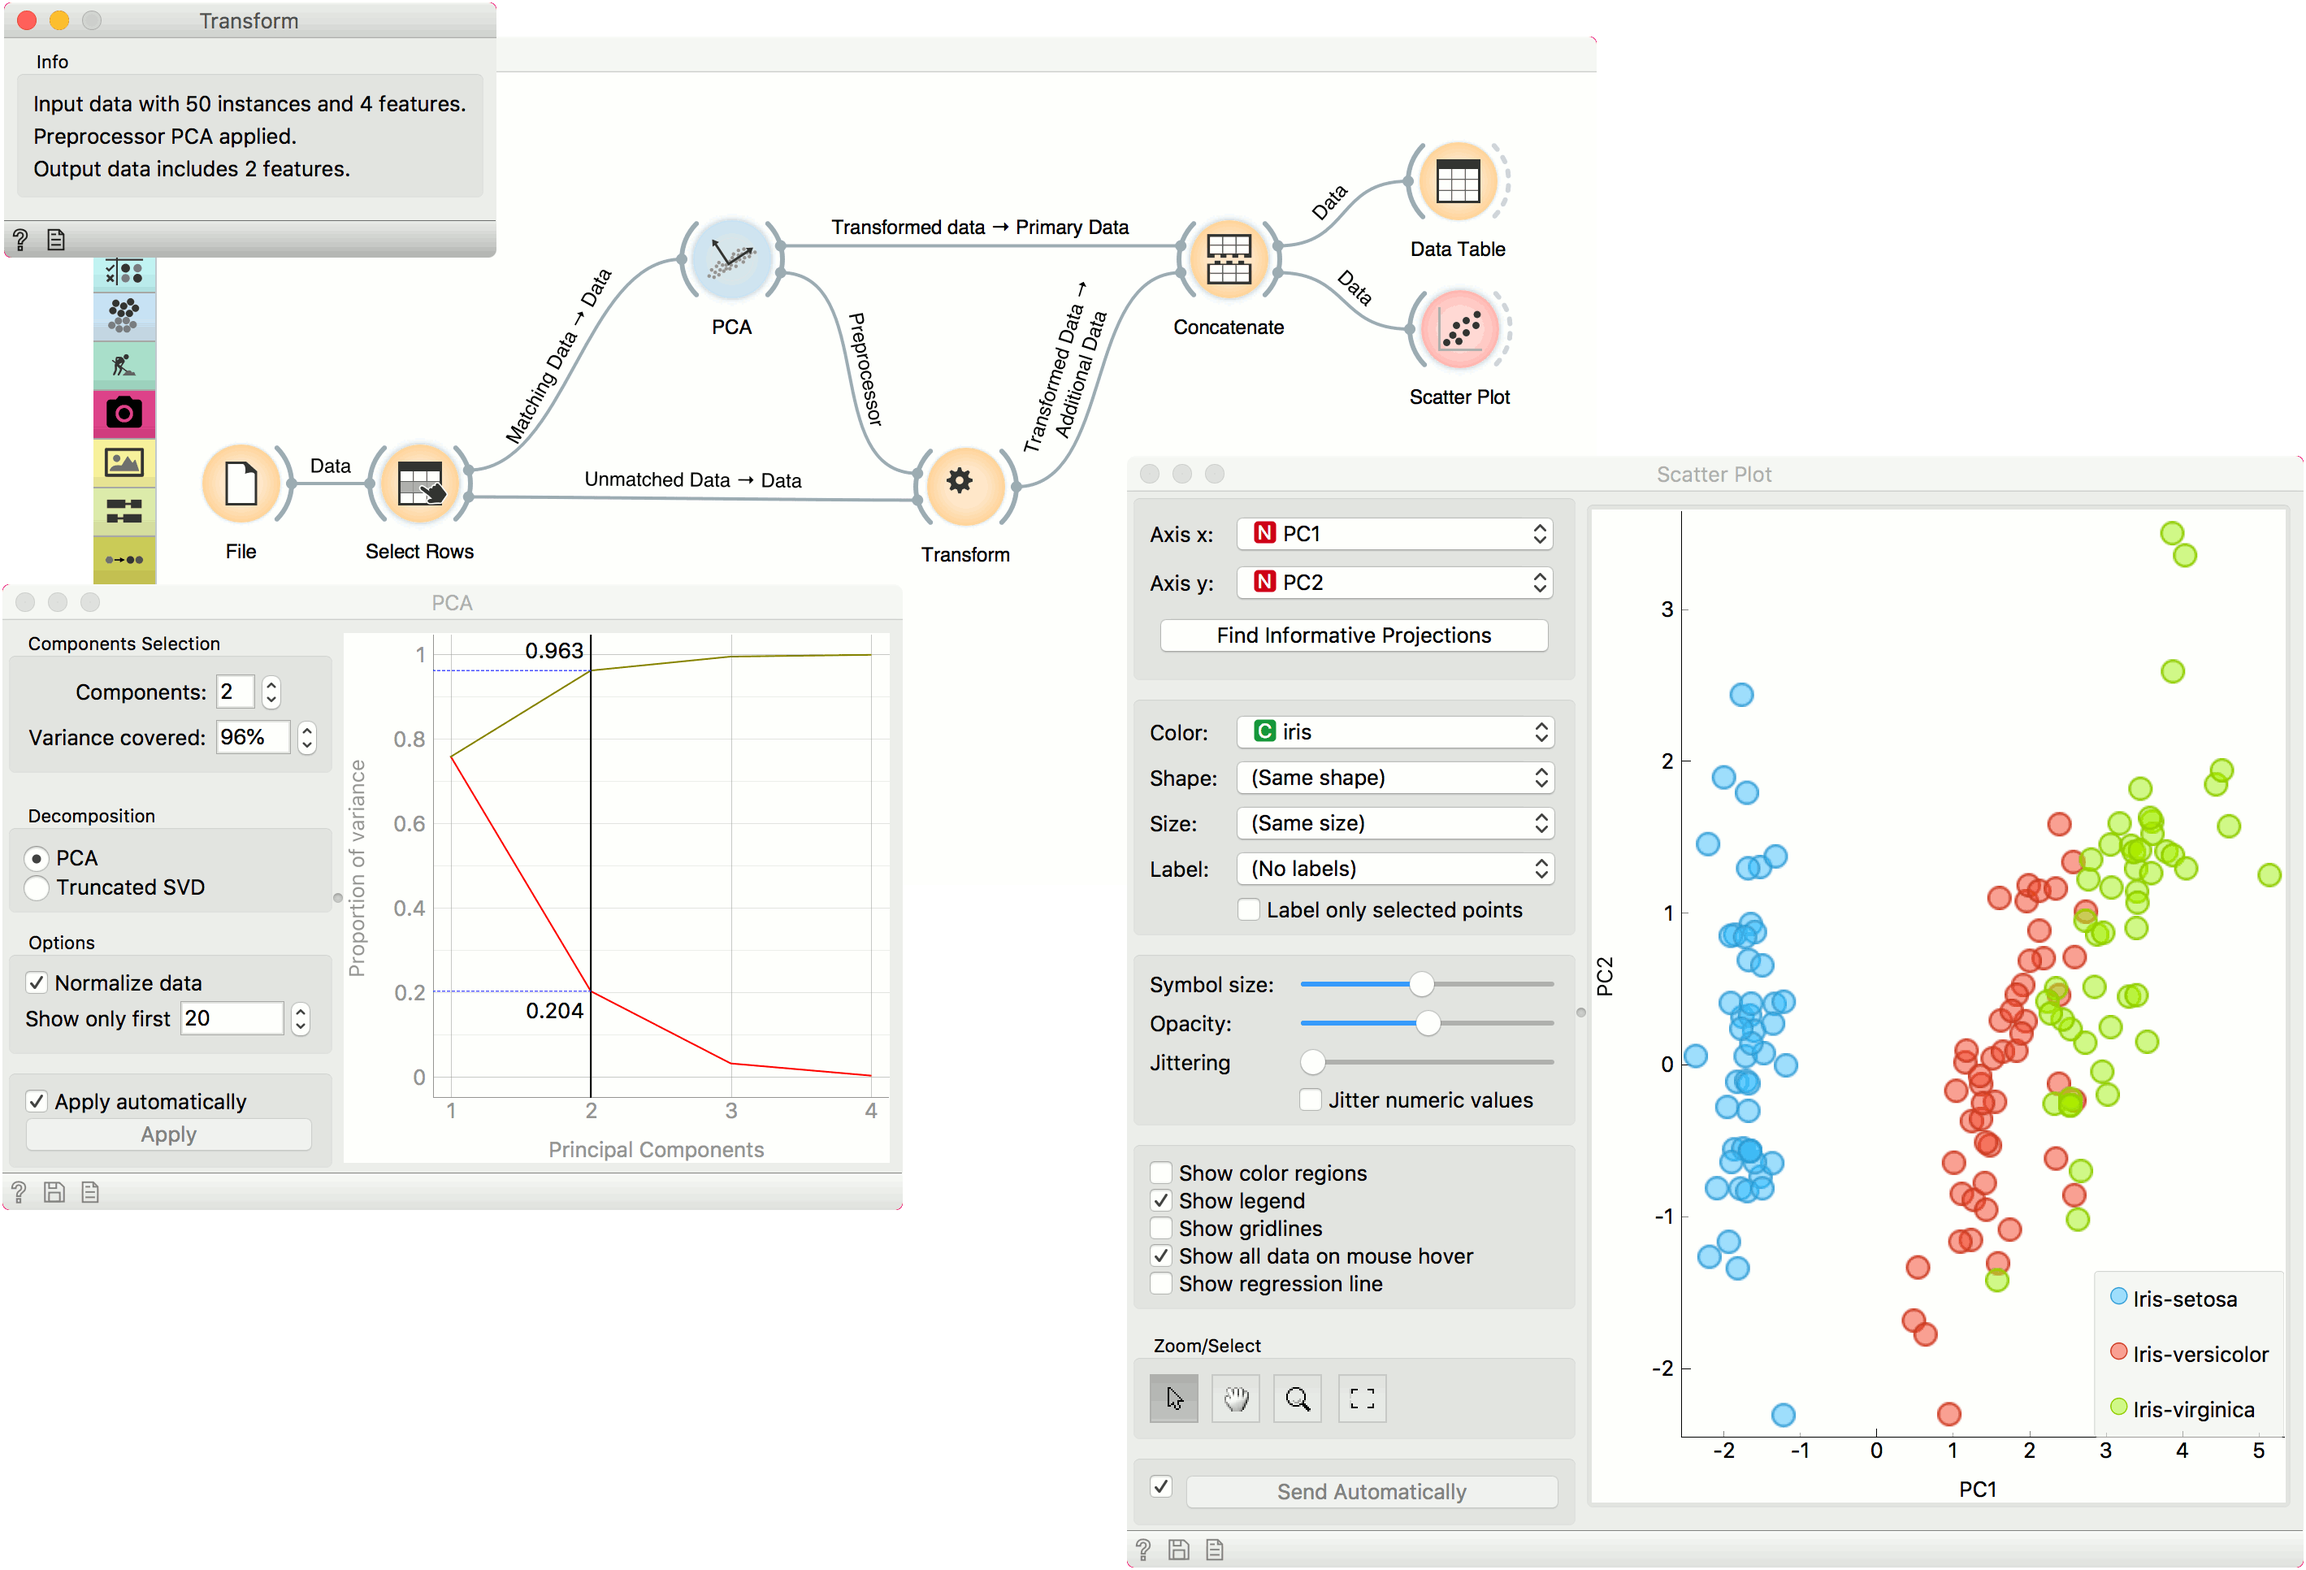
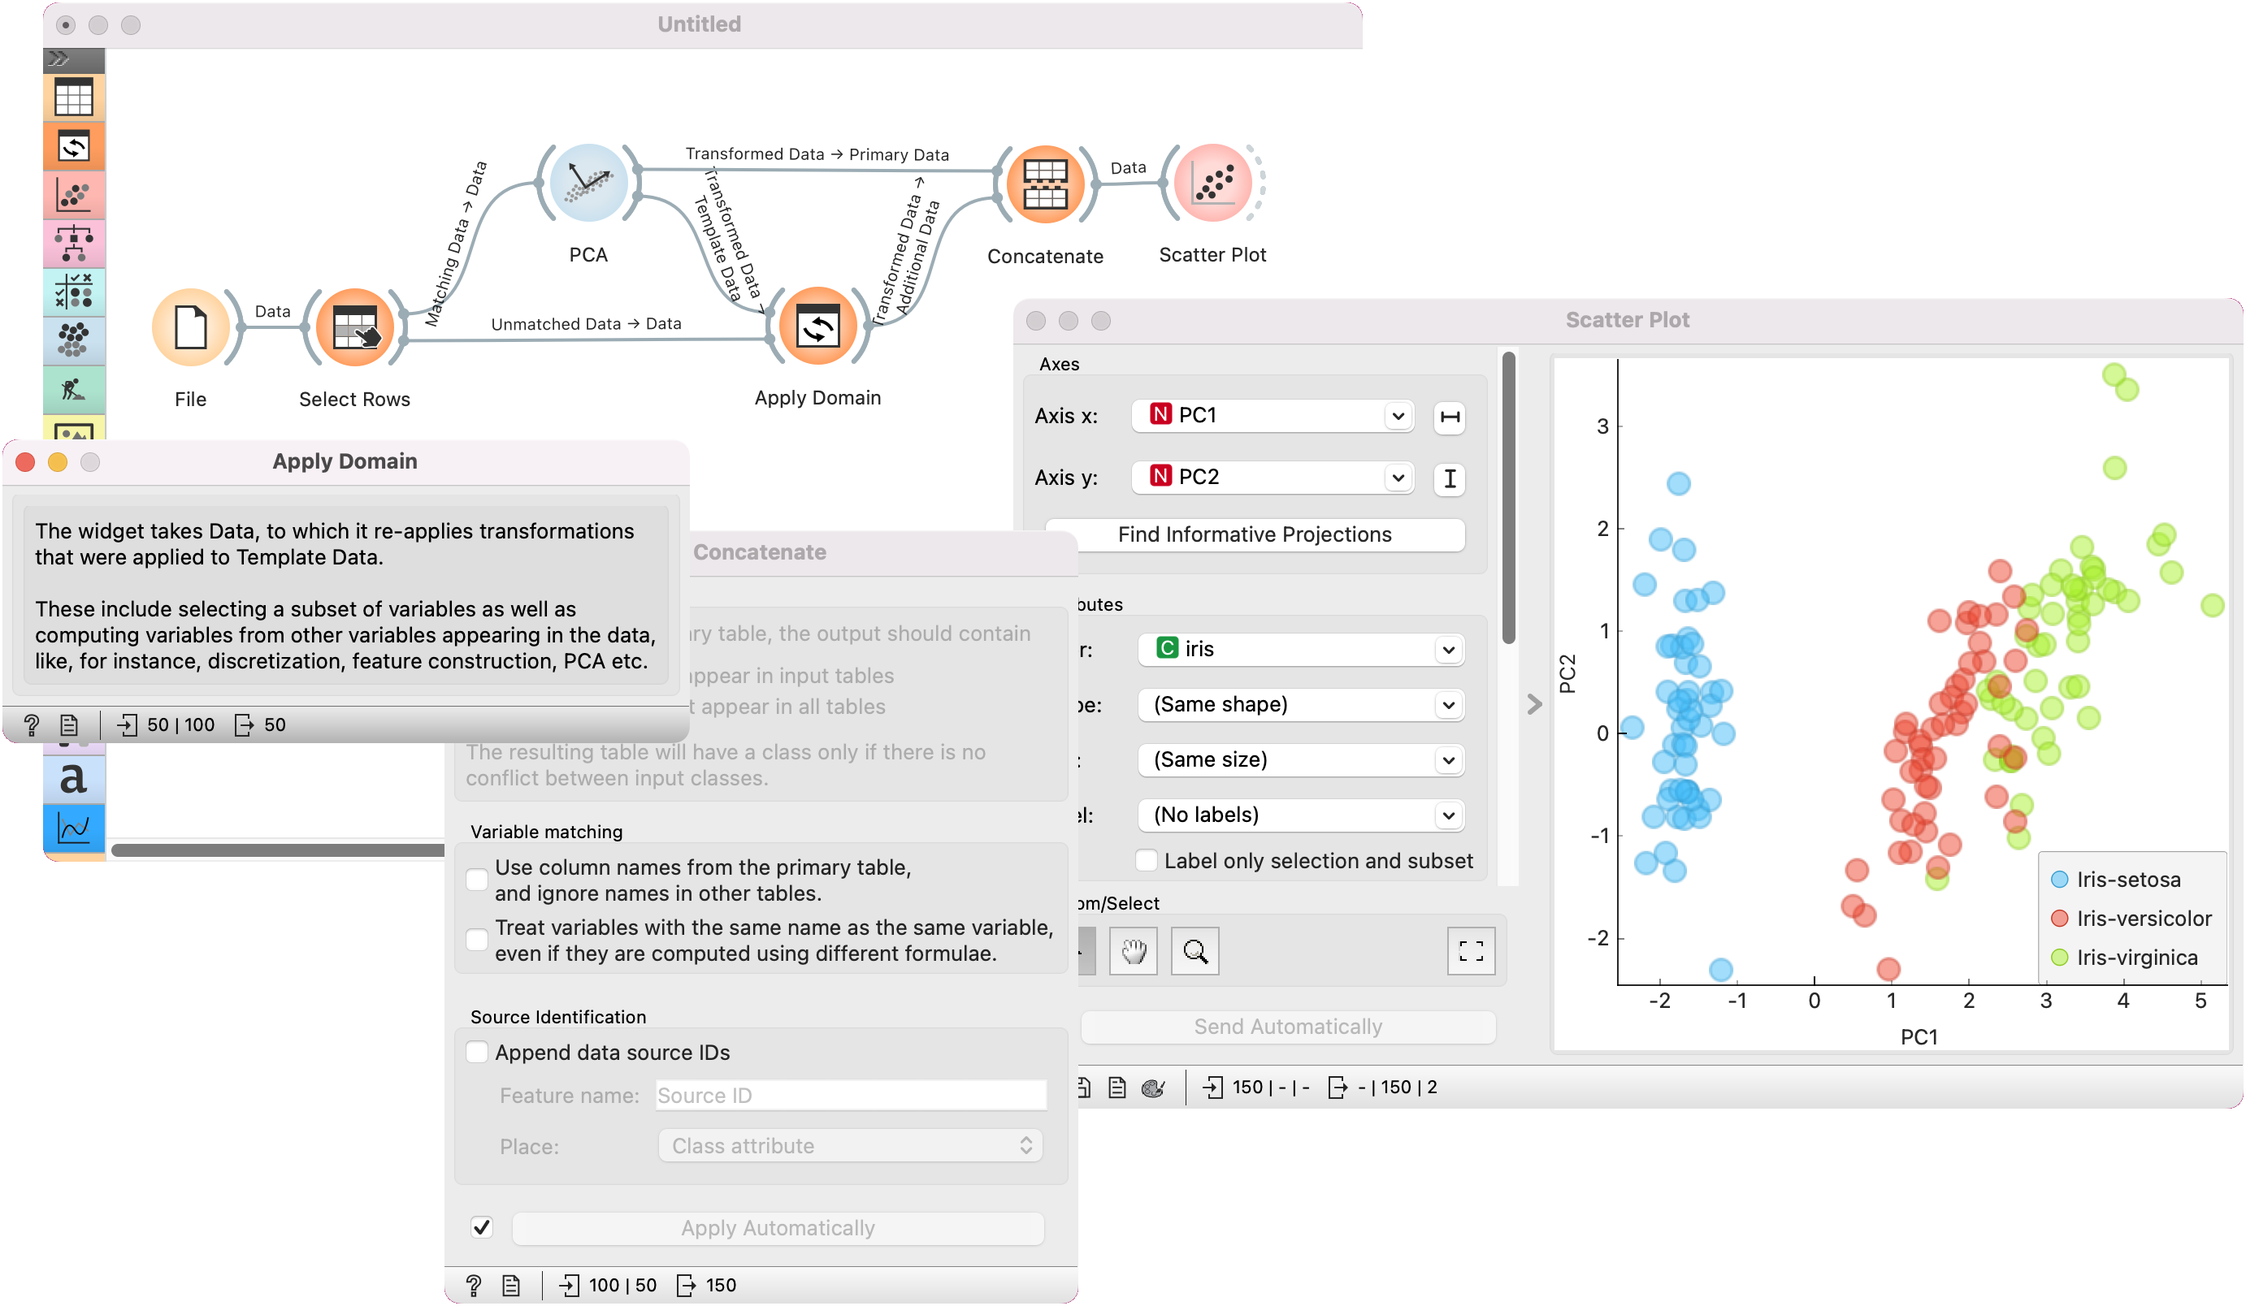
[DOC] Apply Domain

diff --git a/source/widgets/data/applydomain.md b/source/widgets/data/applydomain.md
@@ -14,24 +14,23 @@ Given dataset and template transforms the dataset.
 
 **Apply Domain** maps new data into a transformed space. For example, if we transform some data with PCA and wish to observe new data in the same space, we can use Apply Domain to map the new data into the PCA space created from the original data.
 
-![](images/ApplyDomain.png)
+![](images/ApplyDomain.png){width=70%}
 
 The widget receives a dataset and a template dataset used to transform the dataset.
 
-Side note
---------
+#### Side note
 
 Domain transformation works by using information from the template data. For example, for PCA, Components are not enough. Transformation requires information on the center of each column, variance (if the data is normalized), and if and how the data was preprocessed (continuized, imputed, etc.).
 
 Example
 -------
 
-We will use iris data from the [File](../data/file.md) widget for this example. To create two separate data sets, we will use [Select Rows](../data/selectrows.md) and set the condition to *iris is one of iris-setosa, iris-versicolor*. This will output a data set with a 100 rows, half of them belonging to iris-setosa class and the other half to iris-versicolor.
+We will use *iris* data from the [File](../data/file.md) widget for this example. To create two separate data sets, we will use [Select Rows](../data/selectrows.md) and set the condition to *iris is one of iris-setosa, iris-versicolor*. This will output a data set with a 100 rows, half of them belonging to iris-setosa class and the other half to iris-versicolor.
 
-We will transform the data with [PCA](../unsupervised/PCA.md) and select the first two components, which explain 96% of variance. Now, we would like to apply the same preprocessing on the 'new' data, that is the remaining 50 iris virginicas. Send the unused data from **Select Rows** to **Apply Domain**. Make sure to use the *Unmatched Data* output from **Select Rows** widget. Then add the *Transformed data* output from **PCA**.
+We will transform the data with [PCA](../unsupervised/PCA.md) and select the first two components, which explain 96% of variance. Now, we would like to apply the same preprocessing on the 'new' data, that is the remaining 50 iris virginicas. Send the unused data from **Select Rows** to **Apply Domain**. Make sure to use the *Unmatched Data* from **Select Rows** widget and connect it to Apply Domain as *Data*. Then connect the *Transformed Data* as *Template Data* output from **PCA**.
 
 **Apply Domain** will apply the preprocessor to the new data and output it. To add the new data to the old data, use [Concatenate](../data/concatenate.md). Use *Transformed Data* output from **PCA** as *Primary Data* and *Transformed Data* from **Apply Domain** as *Additional Data*.
 
-Observe the results in a [Data Table](../data/datatable.md) or in a [Scatter Plot](../visualize/scatterplot.md) to see the new data in relation to the old one.
+Observe the results in a [Scatter Plot](../visualize/scatterplot.md) to see how the new data can be plotted next to the old data.
 
 ![](images/ApplyDomain-Example.png)
